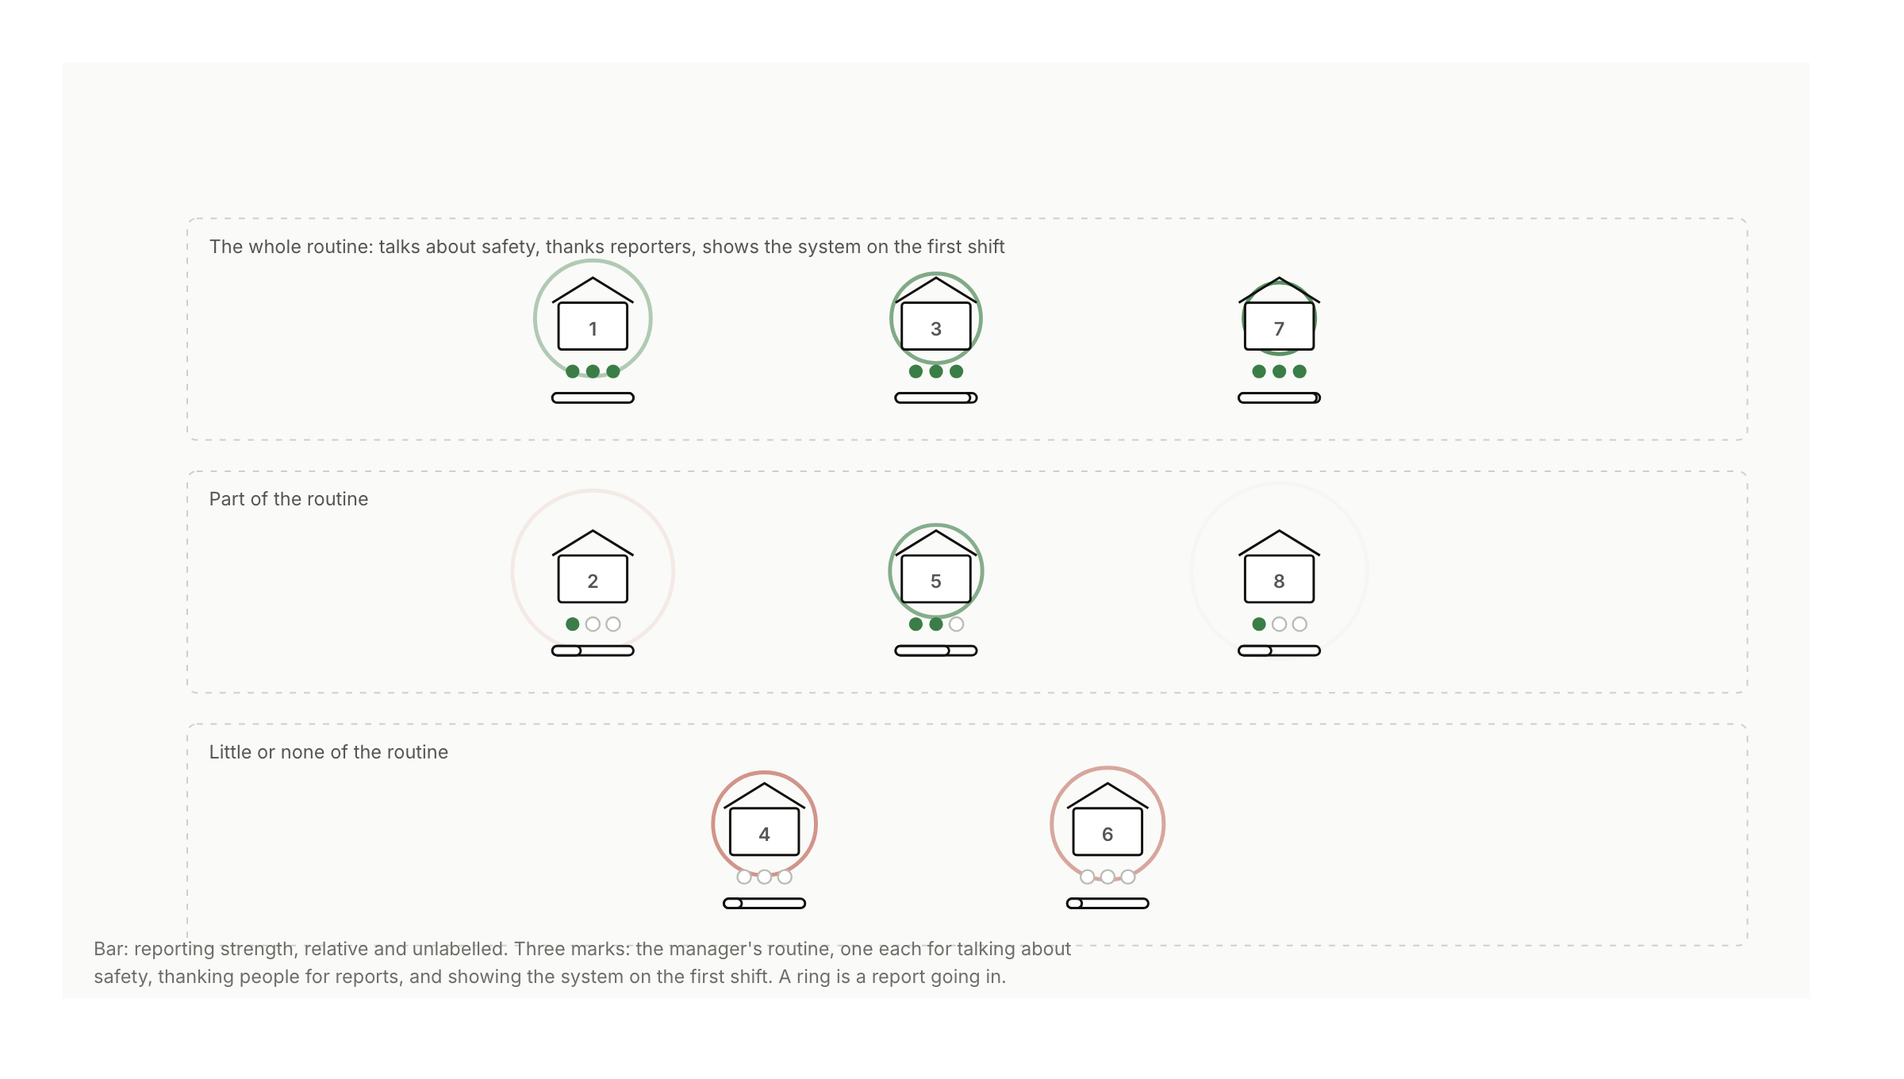
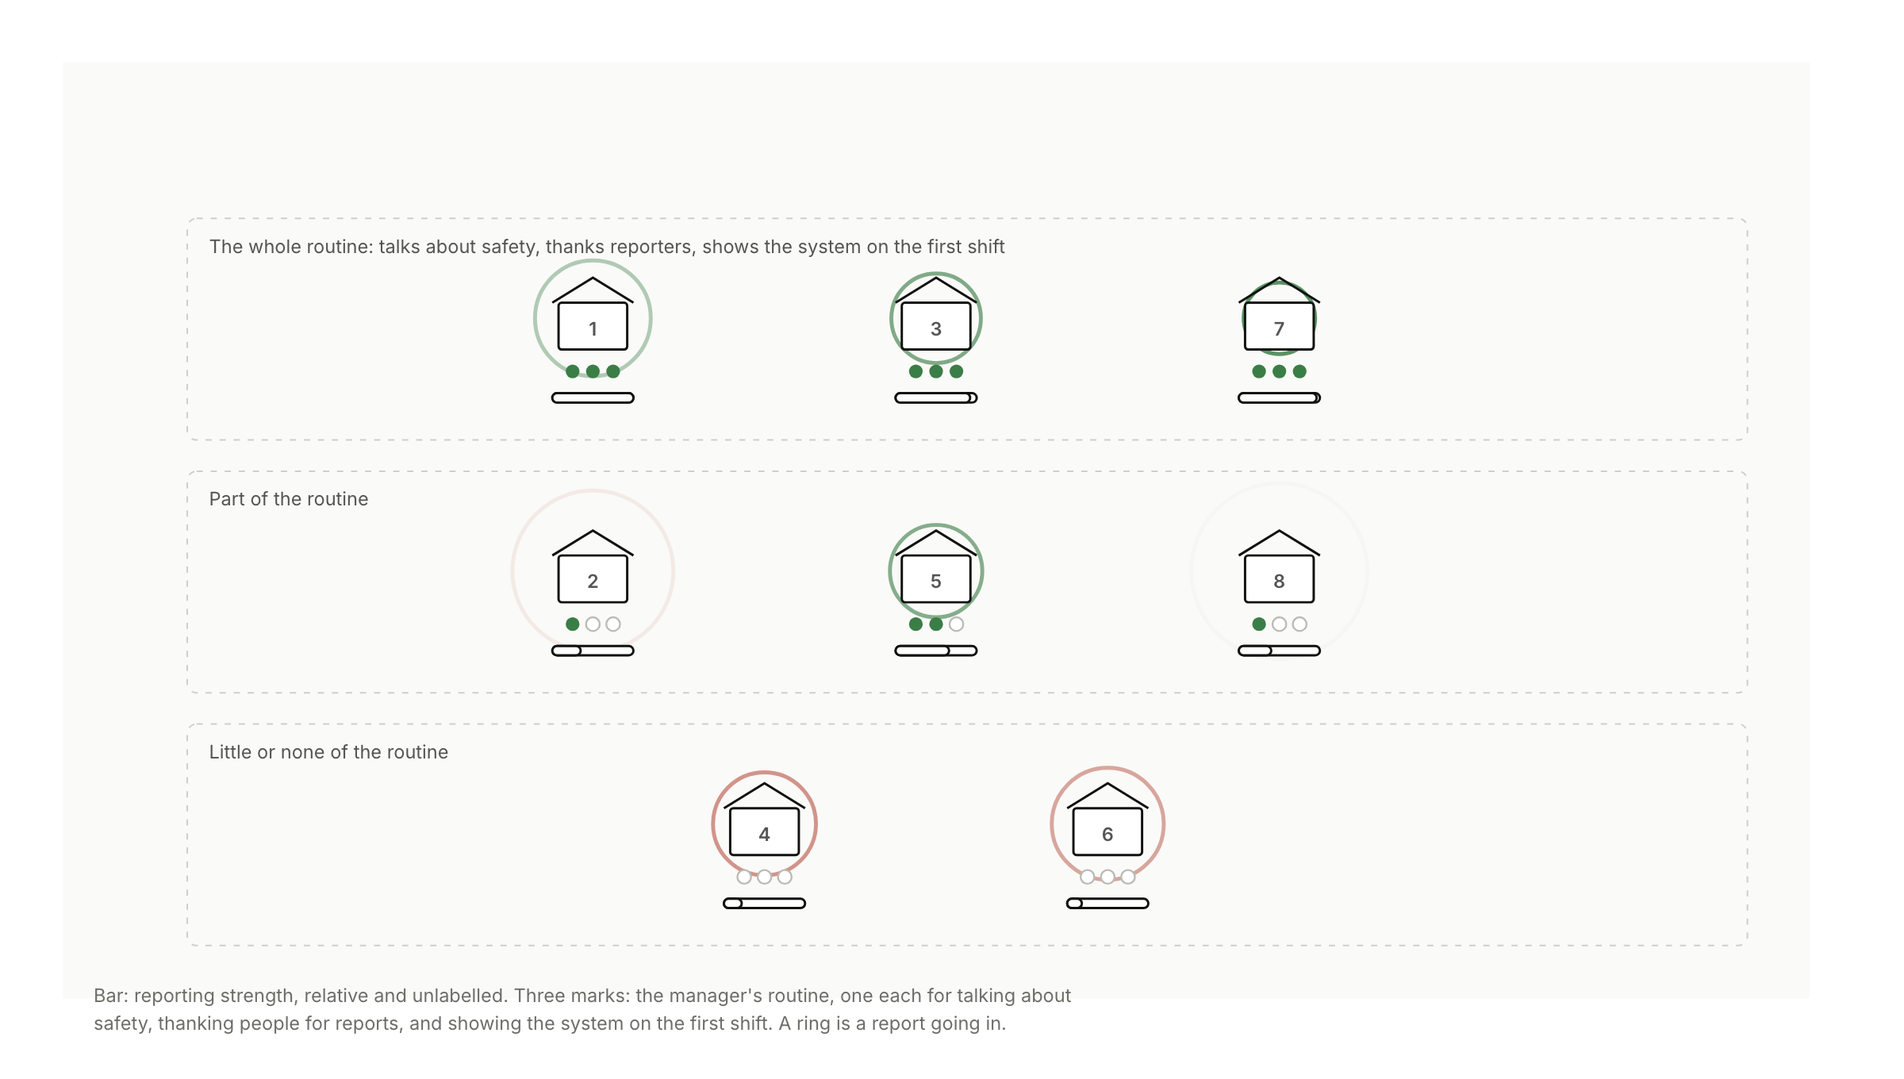
Every label in a case graphic is measured against its neighbours, and the quadrant labels are fixed
The safety graphic drew its four quadrant labels at one point, so in the arrangement the page opens on, four lines of text sat on top of each other. The label now takes the offset of the quadrant it belongs to, its restaurants sit centred in their frames, and the footnote clears both arrangements.

tools/check_graphics.py is the gate that would have caught it. It loads every graphic in headless Chrome, in each state its toggles can reach, measures the bounding box of every visible label, and fails on an overlap, on two labels side by side with under 3 units between them, on two stacked labels that touch, and on a label within 6 units of the edge. Consecutive lines of one wrapped label sit 14 to 16 units apart, which is leading rather than crowding, and the gate says so. It found one more thing worth fixing: the tightest line leading on the comment cards.

assets/motion.js now takes a preset state from the URL (?set=host:0), so a capture or an audit can ask for either state of a graphic without clicking. Covers and card thumbnails recaptured against the current runtime; AGENTS.md documents the graphics and the two failure modes that render as a blank frame or an unhidden element.

Changed region(s): [[0.0312, 0.8647, 0.5625, 0.9574]]

diff --git a/tools/graphics/audit-harness.html b/tools/graphics/audit-harness.html
@@ -1,0 +1,63 @@
+<!doctype html><html><body><script>
+const q = new URLSearchParams(location.search);
+const PAGE = q.get('page');            // graphics page url
+const TOG  = q.get('toggles') || '';   // comma list of data-toggle keys to click first
+const f = document.createElement('iframe');
+f.style.cssText = 'width:' + (q.get('w') || 1280) + 'px;height:1000px;border:0';
+f.src = PAGE;
+f.onload = () => {
+  const d = f.contentDocument, w = f.contentWindow;
+  setTimeout(() => {
+    try {
+      if (TOG) TOG.split(',').filter(Boolean).forEach(k => { const b = d.querySelector('[data-toggle="' + k + '"]'); if (b) b.click(); });
+      setTimeout(() => report(d, w), 400);
+    } catch (e) { out({ error: String(e) }); }
+  }, 900);
+};
+function out(o) { document.body.setAttribute('data-result', JSON.stringify(o)); }
+function report(d, w) {
+  const svg = d.querySelector('svg');
+  const vb = svg.viewBox.baseVal;
+  const sr = svg.getBoundingClientRect();
+  const sx = vb.width / sr.width, sy = vb.height / sr.height;
+  const toVB = r => ({ x: (r.left - sr.left) * sx, y: (r.top - sr.top) * sy, w: r.width * sx, h: r.height * sy });
+  const visible = el => {
+    let n = el;
+    while (n && n !== d.documentElement) {
+      const cs = w.getComputedStyle(n);
+      if (cs.display === 'none' || cs.visibility === 'hidden' || parseFloat(cs.opacity) < 0.06) return false;
+      n = n.parentNode;
+    }
+    return true;
+  };
+  const items = [];
+  for (const t of svg.querySelectorAll('text')) {
+    const s = (t.textContent || '').trim();
+    if (!s || !visible(t)) continue;
+    const r = t.getBoundingClientRect();
+    if (!r.width || !r.height) continue;
+    items.push({ s: s.slice(0, 46), b: toVB(r) });
+  }
+  const overlaps = [], tight = [], EPS = 1.5, NEAR = 4;
+  for (let i = 0; i < items.length; i++) for (let j = i + 1; j < items.length; j++) {
+    const a = items[i].b, b = items[j].b;
+    const ox = Math.min(a.x + a.w, b.x + b.w) - Math.max(a.x, b.x);
+    const oy = Math.min(a.y + a.h, b.y + b.h) - Math.max(a.y, b.y);
+    if (ox > EPS && oy > EPS) { overlaps.push({ a: items[i].s, b: items[j].s, area: Math.round(ox * oy) }); continue; }
+    /* Crowding, not line leading. Two labels side by side on the same row must keep a
+       horizontal gap; two labels stacked must not touch. Consecutive lines of one wrapped
+       label sit 14 to 16px apart, which is leading and not a defect, so only a gap under
+       half a unit counts vertically. */
+    if (oy > 3 && ox <= 0 && -ox < 3) tight.push({ a: items[i].s, b: items[j].s, gap: Math.round(-ox * 10) / 10, axis: 'side by side' });
+    else if (ox > 3 && oy <= 0 && -oy < 0.5) tight.push({ a: items[i].s, b: items[j].s, gap: Math.round(-oy * 10) / 10, axis: 'stacked' });
+  }
+  const M = 6;   /* every label keeps a margin inside the drawing */
+  const outside = items.filter(it => it.b.x < M || it.b.y < M || it.b.x + it.b.w > vb.width - M || it.b.y + it.b.h > vb.height - M)
+                       .map(it => ({ s: it.s, left: Math.round(it.b.x), top: Math.round(it.b.y), right: Math.round(it.b.x + it.b.w), bottom: Math.round(it.b.y + it.b.h) }));
+  /* text sitting on a frame/box border it does not belong to is hard to judge; report text very close to the SVG edge instead */
+  const bar = d.querySelector('.mo-bar');
+  const barOverflow = bar ? Math.round(bar.scrollWidth - bar.clientWidth) : null;
+  out({ texts: items.length, overlaps: overlaps.sort((x, y) => y.area - x.area).slice(0, 14), tight: tight.sort((x, y) => x.gap - y.gap).slice(0, 10), outside: outside.slice(0, 8), barOverflow });
+}
+document.body.appendChild(f);
+</script></body></html>

diff --git a/articles/1/index.html b/articles/1/index.html
@@ -133,8 +133,8 @@
   <g id="er-frames"></g>
   <g id="er-pulses"></g>
   <g id="er-sites"></g>
-  <text x="60" y="612" font-size="12" class="mo-fine">Bar: reporting strength, relative and unlabelled. Three marks: the manager's routine, one each for talking about</text>
-  <text x="60" y="630" font-size="12" class="mo-fine">safety, thanking people for reports, and showing the system on the first shift. A ring is a report going in.</text>
+  <text x="60" y="642" font-size="12" class="mo-fine">Bar: reporting strength, relative and unlabelled. Three marks: the manager's routine, one each for talking about</text>
+  <text x="60" y="660" font-size="12" class="mo-fine">safety, thanking people for reports, and showing the system on the first shift. A ring is a report going in.</text>
 </svg>
 <div class="mo-bar">
   <button type="button" data-play aria-pressed="false">Play</button>
@@ -161,7 +161,7 @@
   function posLocation(i) {
     var s = SITES[i], col = s.metro ? 0 : 1, row = s.crime ? 0 : 1;
     var idx = SITES.slice(0, i).filter(function (o) { return o.metro === s.metro && o.crime === s.crime; }).length;
-    return [232 + col * 560 + idx * 220, 216 + row * 250];
+    return [232 + col * 560 + idx * 220, 235 + row * 250];
   }
   function posRoutine(i) {
     var b = band(SITES[i]);
@@ -173,7 +173,7 @@
   for (var r = 0; r < 2; r++) for (var c = 0; c < 2; c++) {
     var g = M.el('g', {}, framesG);
     M.el('rect', { 'class': 'er-frame', x: 120 + c * 560, y: 140 + r * 250, width: 480, height: 210, rx: 6 }, g);
-    M.text(g, 134, 162, COLT[c] + ', ' + ROWT[r], { 'font-size': 12, 'class': 'er-label' });
+    M.text(g, 134 + c * 560, 162 + r * 250, COLT[c] + ', ' + ROWT[r], { 'font-size': 12, 'class': 'er-label' });
     locFrames.push(g);
   }
   BANDS.forEach(function (b, k) {

diff --git a/articles/1/graphics/eight-restaurants.html b/articles/1/graphics/eight-restaurants.html
@@ -39,8 +39,8 @@
   <g id="er-frames"></g>
   <g id="er-pulses"></g>
   <g id="er-sites"></g>
-  <text x="60" y="612" font-size="12" class="mo-fine">Bar: reporting strength, relative and unlabelled. Three marks: the manager's routine, one each for talking about</text>
-  <text x="60" y="630" font-size="12" class="mo-fine">safety, thanking people for reports, and showing the system on the first shift. A ring is a report going in.</text>
+  <text x="60" y="642" font-size="12" class="mo-fine">Bar: reporting strength, relative and unlabelled. Three marks: the manager's routine, one each for talking about</text>
+  <text x="60" y="660" font-size="12" class="mo-fine">safety, thanking people for reports, and showing the system on the first shift. A ring is a report going in.</text>
 </svg>
 <div class="mo-bar">
   <button type="button" data-play aria-pressed="false">Play</button>
@@ -67,7 +67,7 @@
   function posLocation(i) {
     var s = SITES[i], col = s.metro ? 0 : 1, row = s.crime ? 0 : 1;
     var idx = SITES.slice(0, i).filter(function (o) { return o.metro === s.metro && o.crime === s.crime; }).length;
-    return [232 + col * 560 + idx * 220, 216 + row * 250];
+    return [232 + col * 560 + idx * 220, 235 + row * 250];
   }
   function posRoutine(i) {
     var b = band(SITES[i]);
@@ -79,7 +79,7 @@
   for (var r = 0; r < 2; r++) for (var c = 0; c < 2; c++) {
     var g = M.el('g', {}, framesG);
     M.el('rect', { 'class': 'er-frame', x: 120 + c * 560, y: 140 + r * 250, width: 480, height: 210, rx: 6 }, g);
-    M.text(g, 134, 162, COLT[c] + ', ' + ROWT[r], { 'font-size': 12, 'class': 'er-label' });
+    M.text(g, 134 + c * 560, 162 + r * 250, COLT[c] + ', ' + ROWT[r], { 'font-size': 12, 'class': 'er-label' });
     locFrames.push(g);
   }
   BANDS.forEach(function (b, k) {

diff --git a/tools/graphics/eight-restaurants.html b/tools/graphics/eight-restaurants.html
@@ -17,8 +17,8 @@
   <g id="er-frames"></g>
   <g id="er-pulses"></g>
   <g id="er-sites"></g>
-  <text x="60" y="612" font-size="12" class="mo-fine">Bar: reporting strength, relative and unlabelled. Three marks: the manager's routine, one each for talking about</text>
-  <text x="60" y="630" font-size="12" class="mo-fine">safety, thanking people for reports, and showing the system on the first shift. A ring is a report going in.</text>
+  <text x="60" y="642" font-size="12" class="mo-fine">Bar: reporting strength, relative and unlabelled. Three marks: the manager's routine, one each for talking about</text>
+  <text x="60" y="660" font-size="12" class="mo-fine">safety, thanking people for reports, and showing the system on the first shift. A ring is a report going in.</text>
 </svg>
 <div class="mo-bar">
   <button type="button" data-play aria-pressed="false">Play</button>
@@ -45,7 +45,7 @@
   function posLocation(i) {
     var s = SITES[i], col = s.metro ? 0 : 1, row = s.crime ? 0 : 1;
     var idx = SITES.slice(0, i).filter(function (o) { return o.metro === s.metro && o.crime === s.crime; }).length;
-    return [232 + col * 560 + idx * 220, 216 + row * 250];
+    return [232 + col * 560 + idx * 220, 235 + row * 250];
   }
   function posRoutine(i) {
     var b = band(SITES[i]);
@@ -57,7 +57,7 @@
   for (var r = 0; r < 2; r++) for (var c = 0; c < 2; c++) {
     var g = M.el('g', {}, framesG);
     M.el('rect', { 'class': 'er-frame', x: 120 + c * 560, y: 140 + r * 250, width: 480, height: 210, rx: 6 }, g);
-    M.text(g, 134, 162, COLT[c] + ', ' + ROWT[r], { 'font-size': 12, 'class': 'er-label' });
+    M.text(g, 134 + c * 560, 162 + r * 250, COLT[c] + ', ' + ROWT[r], { 'font-size': 12, 'class': 'er-label' });
     locFrames.push(g);
   }
   BANDS.forEach(function (b, k) {

diff --git a/assets/motion.js b/assets/motion.js
@@ -27,6 +27,12 @@
   var params = new URLSearchParams(location.search);
   var STATIC = params.get('static') === '1' || reduce;
   var T_STATIC = params.has('t') ? parseFloat(params.get('t')) : null;
+  /* ?set=host:0,routine:1 forces a toggle before the first frame, so a capture or an
+     audit can ask for either state of a graphic without clicking anything. */
+  var PRESET = {};
+  (params.get('set') || '').split(',').filter(Boolean).forEach(function (pair) {
+    var kv = pair.split(':'); PRESET[kv[0]] = kv[1] !== '0';
+  });
 
   function q(el, s) { return el.querySelector(s); }
   function qa(el, s) { return Array.prototype.slice.call(el.querySelectorAll(s)); }
@@ -69,6 +75,7 @@
   function mount(root, spec) {
     var svg = q(root, 'svg');
     var state = spec.state || {};
+    Object.keys(PRESET).forEach(function (k) { state[k] = PRESET[k]; });
     var duration = spec.duration || 40;
     var live = q(root, '.mo-live');
     if (!live) { live = document.createElement('p'); live.className = 'mo-live'; live.setAttribute('aria-live', 'polite'); root.appendChild(live); }

diff --git a/articles/7/graphics/coding-pipeline.html b/articles/7/graphics/coding-pipeline.html
@@ -129,7 +129,7 @@
     M.el('rect', { x: 0, y: 0, width: W, height: H, rx: 4 }, g);
     var words = c[0].split(' '), l1 = '', l2 = '';
     words.forEach(function (w) { if (!l2 && (l1 + ' ' + w).trim().length <= 31) l1 = (l1 + ' ' + w).trim(); else l2 = (l2 + ' ' + w).trim(); });
-    M.text(g, 9, 18, l1, { 'font-size': 11, 'class': 'mo-fine' }); M.text(g, 9, 32, l2, { 'font-size': 11, 'class': 'mo-fine' });
+    M.text(g, 9, 17, l1, { 'font-size': 11, 'class': 'mo-fine' }); M.text(g, 9, 33, l2, { 'font-size': 11, 'class': 'mo-fine' });
     var chip = M.el('g', { 'class': 'cp-chip', opacity: 0 }, g);
     var label = THEMES[c[1]], cw = Math.min(150, label.length * 5.6 + 12);
     M.el('rect', { x: 9, y: 38, width: cw, height: 14, rx: 2 }, chip); M.text(chip, 14, 48.5, label, { 'font-size': 10 });

diff --git a/articles/7/index.html b/articles/7/index.html
@@ -199,7 +199,7 @@
     M.el('rect', { x: 0, y: 0, width: W, height: H, rx: 4 }, g);
     var words = c[0].split(' '), l1 = '', l2 = '';
     words.forEach(function (w) { if (!l2 && (l1 + ' ' + w).trim().length <= 31) l1 = (l1 + ' ' + w).trim(); else l2 = (l2 + ' ' + w).trim(); });
-    M.text(g, 9, 18, l1, { 'font-size': 11, 'class': 'mo-fine' }); M.text(g, 9, 32, l2, { 'font-size': 11, 'class': 'mo-fine' });
+    M.text(g, 9, 17, l1, { 'font-size': 11, 'class': 'mo-fine' }); M.text(g, 9, 33, l2, { 'font-size': 11, 'class': 'mo-fine' });
     var chip = M.el('g', { 'class': 'cp-chip', opacity: 0 }, g);
     var label = THEMES[c[1]], cw = Math.min(150, label.length * 5.6 + 12);
     M.el('rect', { x: 9, y: 38, width: cw, height: 14, rx: 2 }, chip); M.text(chip, 14, 48.5, label, { 'font-size': 10 });

diff --git a/tools/graphics/coding-pipeline.html b/tools/graphics/coding-pipeline.html
@@ -107,7 +107,7 @@
     M.el('rect', { x: 0, y: 0, width: W, height: H, rx: 4 }, g);
     var words = c[0].split(' '), l1 = '', l2 = '';
     words.forEach(function (w) { if (!l2 && (l1 + ' ' + w).trim().length <= 31) l1 = (l1 + ' ' + w).trim(); else l2 = (l2 + ' ' + w).trim(); });
-    M.text(g, 9, 18, l1, { 'font-size': 11, 'class': 'mo-fine' }); M.text(g, 9, 32, l2, { 'font-size': 11, 'class': 'mo-fine' });
+    M.text(g, 9, 17, l1, { 'font-size': 11, 'class': 'mo-fine' }); M.text(g, 9, 33, l2, { 'font-size': 11, 'class': 'mo-fine' });
     var chip = M.el('g', { 'class': 'cp-chip', opacity: 0 }, g);
     var label = THEMES[c[1]], cw = Math.min(150, label.length * 5.6 + 12);
     M.el('rect', { x: 9, y: 38, width: cw, height: 14, rx: 2 }, chip); M.text(chip, 14, 48.5, label, { 'font-size': 10 });

diff --git a/tools/check_graphics.py b/tools/check_graphics.py
@@ -1,0 +1,106 @@
+#!/usr/bin/env python3
+"""Fail if any label in a case graphic overlaps another, crowds it, or leaves the frame.
+
+The graphics are drawn by script, so a label's position is computed rather than placed,
+and a wrong offset puts four labels on top of each other without any text gate noticing.
+That shipped once: the four quadrant labels of the safety graphic were all drawn at the
+top-left corner of the first frame, in the arrangement the page opens on.
+
+Every graphic is loaded in headless Chrome, in each state its toggles can reach, and the
+bounding box of every visible label is measured. Three things fail:
+
+  overlap   two labels' boxes intersect
+  crowding  two labels side by side on a row with under 3 units between them, or two
+            stacked labels whose boxes touch (under half a unit). Consecutive lines of
+            one wrapped label sit 14 to 16 units apart, which is leading, not crowding.
+  margin    a label within 6 units of the edge of the drawing
+
+Usage: check_graphics.py [name ...]
+"""
+import itertools, json, os, pathlib, re, signal, subprocess, sys, tempfile, time
+
+ROOT = pathlib.Path(__file__).resolve().parent.parent
+CHROME = "/Applications/Google Chrome.app/Contents/MacOS/Google Chrome"
+HARNESS = ROOT / "tools/graphics/audit-harness.html"
+WIDTH = 1280
+
+
+def graphics():
+    """Every graphic, with the toggle keys its control bar offers."""
+    out = {}
+    for spec in sorted((ROOT / "articles").glob("*/graphics/*.html")):
+        if spec.name == "audit-harness.html":
+            continue
+        src = spec.read_text()
+        keys = re.findall(r'data-toggle="([a-z]+)"', src)
+        out[spec] = keys
+    return out
+
+
+def states(keys):
+    """Every combination of the toggles, capped so a graphic with many stays quick."""
+    keys = keys[:3]
+    combos = []
+    for r in range(len(keys) + 1):
+        for c in itertools.combinations(keys, r):
+            combos.append(",".join(c))
+    return combos or [""]
+
+
+def measure(page, toggles):
+    out = pathlib.Path(tempfile.mkdtemp()) / "dom.html"
+    url = f"file://{HARNESS}?page=file://{page}%3Fstatic=1&toggles={toggles}&w={WIDTH}"
+    cmd = [CHROME, "--headless=new", "--disable-gpu", "--allow-file-access-from-files",
+           f"--user-data-dir={tempfile.mkdtemp()}", f"--window-size={WIDTH + 120},1100",
+           "--virtual-time-budget=6000", "--dump-dom", url]
+    with open(out, "wb") as fh:
+        proc = subprocess.Popen(cmd, start_new_session=True, stdout=fh, stderr=subprocess.DEVNULL)
+        deadline = time.time() + float(os.environ.get("CAP_TIMEOUT", "60"))
+        res = None
+        while time.time() < deadline:
+            txt = out.read_text(errors="ignore") if out.exists() else ""
+            m = re.search(r'data-result="([^"]*)"', txt)
+            if m:
+                res = json.loads(m.group(1).replace("&quot;", '"').replace("&amp;", "&"))
+                break
+            if proc.poll() is not None:
+                break
+            time.sleep(0.25)
+        try:
+            os.killpg(os.getpgid(proc.pid), signal.SIGKILL)
+        except (ProcessLookupError, PermissionError):
+            pass
+    return res
+
+
+def main():
+    want = set(sys.argv[1:])
+    fails, checked = [], 0
+    for page, keys in graphics().items():
+        if want and page.stem not in want:
+            continue
+        for tog in states(keys):
+            r = measure(page, tog)
+            label = f"{page.stem} [{tog or 'as it opens'}]"
+            checked += 1
+            if not r or r.get("error"):
+                fails.append(f"{label}: could not measure ({r})")
+                continue
+            for o in r.get("overlaps", []):
+                fails.append(f"{label}: {o['a']!r} overlaps {o['b']!r} over {o['area']} square units")
+            for o in r.get("tight", []):
+                fails.append(f"{label}: {o['a']!r} and {o['b']!r} are {o['axis']} with {o['gap']} units between them")
+            for o in r.get("outside", []):
+                fails.append(f"{label}: {o['s']!r} is within 6 units of the edge (left {o['left']}, top {o['top']}, right {o['right']}, bottom {o['bottom']})")
+            if r.get("barOverflow"):
+                fails.append(f"{label}: the control bar overflows by {r['barOverflow']}px")
+    if fails:
+        print(f"GRAPHICS FAILED, {len(fails)} problem(s) across {checked} states:")
+        for f in fails:
+            print("  - " + f)
+        sys.exit(1)
+    print(f"GRAPHICS OK: every label clear of its neighbours and the frame, in {checked} states")
+
+
+if __name__ == "__main__":
+    main()

diff --git a/AGENTS.md b/AGENTS.md
@@ -38,8 +38,29 @@ token.
 | Side gutter | `tools/check_layout.py` | Any text under `main` within 16px of the window edge, or a page that scrolls sideways, at 390 and 1280 (pages are loaded in an iframe of that width, because headless Chrome will not lay out under about 500px) |
 | Facts across surfaces | `tools/check_facts.py` | A hero number typed differently on the case, the home page, the Work page, the showcase, the CV or llms.txt; a Work headline that miscounts its cards; a stat-strip number missing from the case's facts.json |
 | Safety facts | `tools/check_safety_facts.py` | A weekday that does not match its date in the safety screens, initials that do not match the name, a reference used for two records, counts that disagree between screens |
+| Case graphics | `tools/check_graphics.py` | A label in a case graphic that overlaps another, crowds it, or comes within 6 units of the edge, measured in every state its toggles can reach |
 
 Run `tools/lint_site.py` before you consider anything finished. The lint also holds the type rules: every font-size on a product screen is one of the `--p-fs-0` to `--p-fs-7` tokens, every font-size on a site page is one of the eight `--t-1` to `--t-8` steps in `style.css` (display headings may use `clamp()`), and nothing outside a code block sets `overflow-x` to auto or scroll.
+
+## Case graphics
+
+`tools/graphics/<name>.html` is the source of one animated plan-view graphic: its SVG, its
+control bar, its caption and its script, all self-contained. `tools/build_graphics.py`
+injects it into its case page between `<!-- graphic:name -->` markers, writes the standalone
+page at `articles/N/graphics/<name>.html`, and writes the capture spec for its cover. Edit
+the source, never the copy inside a case page, and never the standalone page.
+
+`assets/motion.js` owns the clock. A graphic starts when it scrolls into view, stops when it
+leaves, pauses on its button, and freezes to one composed frame under `prefers-reduced-motion`.
+Add `?static=1` to a graphics page for that frozen frame, `&t=<seconds>` to pick the moment,
+and `&set=host:0` to force a toggle. Covers are captured that way, so a cover cannot drift
+from the graphic; `tools/check_fresh.py` hashes `motion.js` and `motion.css` into a graphics
+capture, which means changing the runtime makes every cover stale until it is recaptured.
+
+Two failures worth knowing. A CSS `opacity` on a class beats the `opacity` attribute a script
+sets, so an element meant to be hidden stays visible. And a ReferenceError inside a draw loop
+renders as a blank frame rather than an error, so run `tools/check_graphics.py` after editing:
+it loads every graphic and would report nothing drawn.
 
 ## Capturing screens
 
